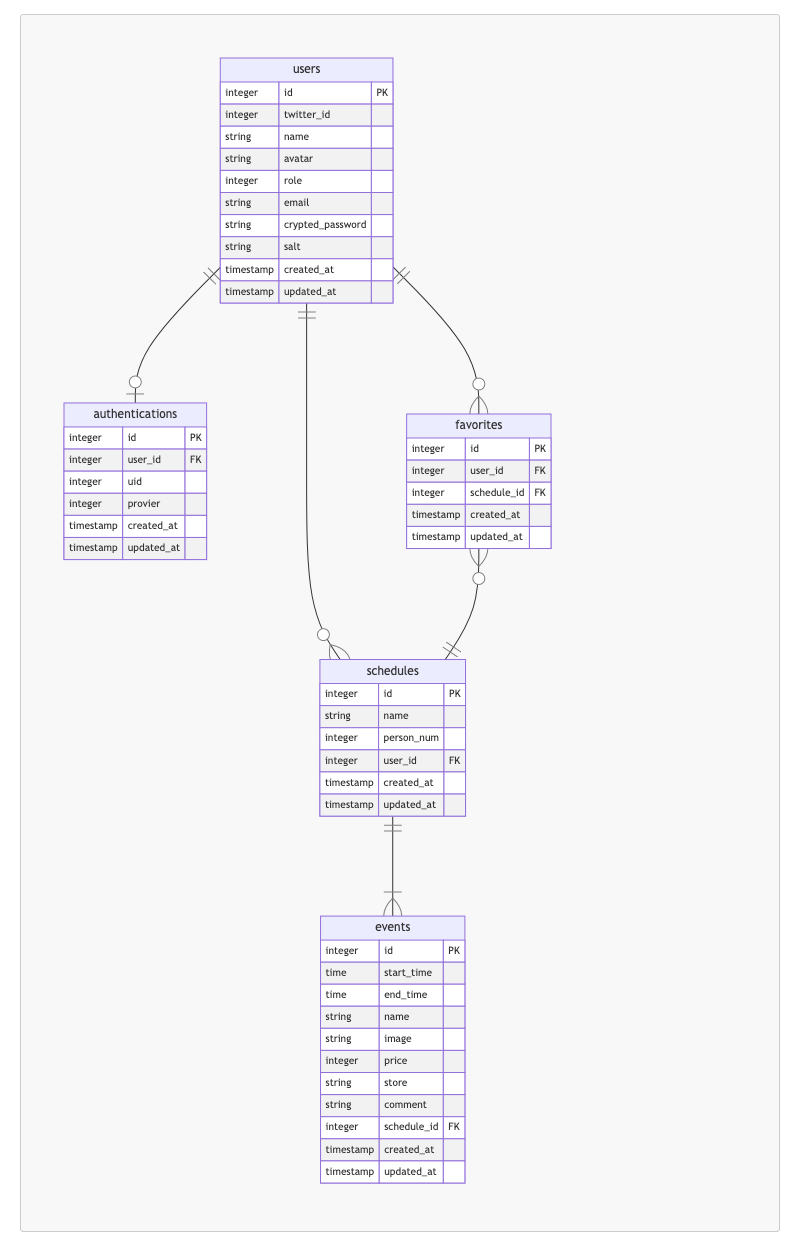
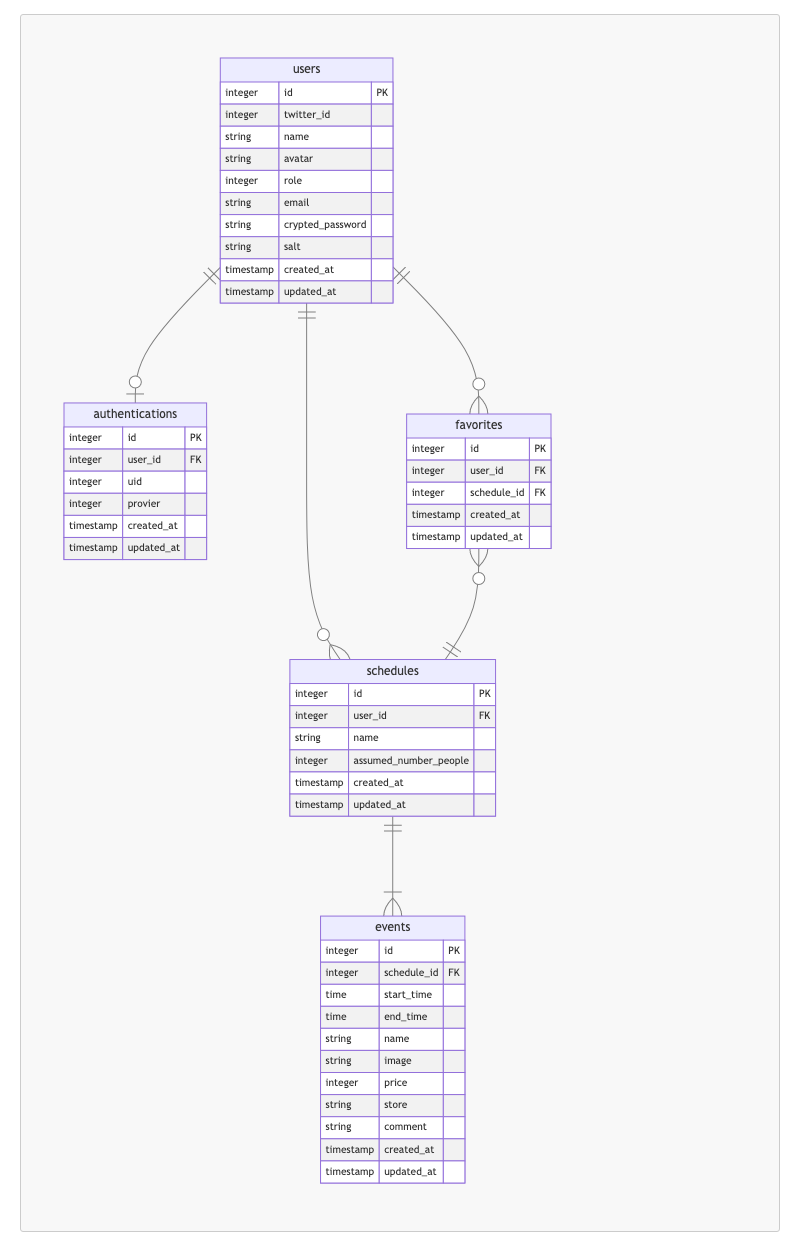
fix: カラム名修正

diff --git a/er_diagram.md b/er_diagram.md
@@ -30,15 +30,16 @@ erDiagram
     }
     schedules {
         integer id "PK"
-        string name
-        integer person_num
         integer user_id "FK"
+        string name
+        integer assumed_number_people
         timestamp created_at
         timestamp updated_at
     }
 
     events {
         integer id "PK"
+        integer schedule_id "FK"
         time start_time
         time end_time
         string name
@@ -46,7 +47,6 @@ erDiagram
         integer price
         string store
         string comment
-        integer schedule_id "FK"
         timestamp created_at
         timestamp updated_at
     }
